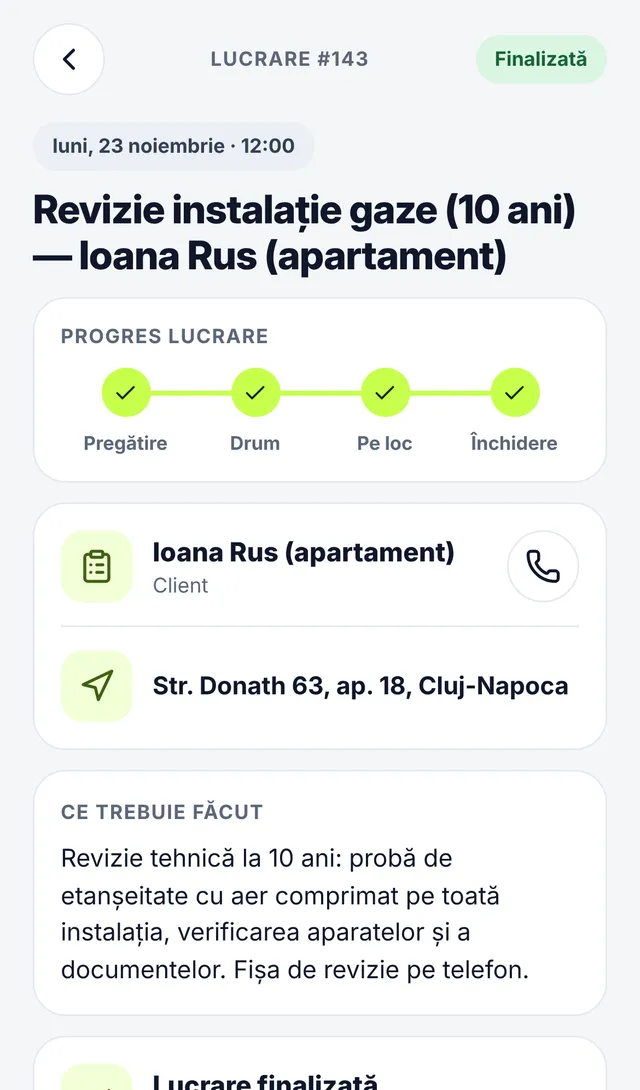
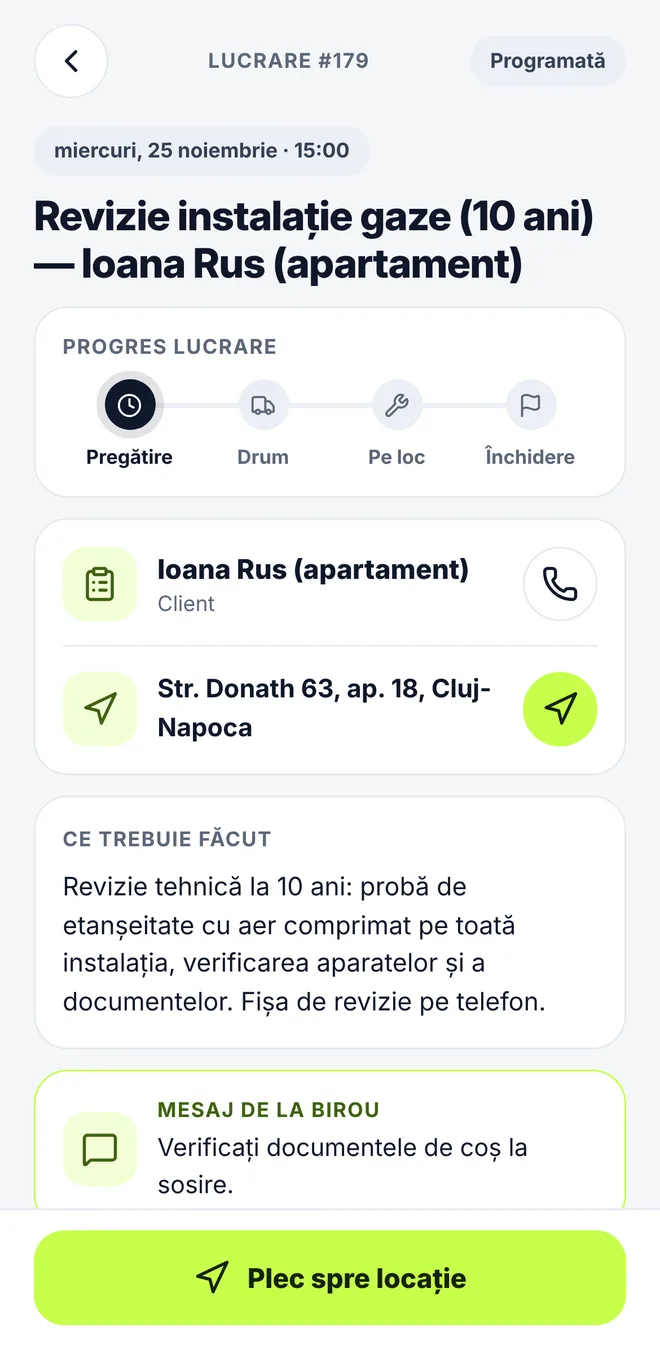
Pagina principală: telefoanele cu proporții și ramă reale de iPhone
Capturile aplicației refăcute la dimensiunea ecranului de telefon, cu bara de stare și decupajul camerei; ecranul nu mai taie captura pe laterale.

Claude-Session: https://claude.ai/code/session_01CgHUwQmF4xUKMt6stntCpV

diff --git a/src/components/marketing/marketing.module.css b/src/components/marketing/marketing.module.css
@@ -549,3 +549,17 @@ p.heroTitle { margin: 0; }
 .appPhones { display: grid; grid-template-columns: repeat(2, minmax(0, 1fr)); gap: 16px; align-items: start; }
 .appPhones .realPhone { width: 100%; max-width: 280px; }
 .appPhones .realPhone:nth-child(2) { margin-top: 40px; }
+
+/* Ramă de iPhone pentru capturile reale: proporții 390×844, bara de stare albă, decupajul camerei. */
+.pf { width: 100%; padding: 3.2%; border-radius: 15% / 7%; background: #121414; box-shadow: 0 0 0 1px #2c302e, 0 30px 60px -30px rgba(0,0,0,.8); }
+.pfScreen { position: relative; border-radius: 12.5% / 5.8%; overflow: hidden; background: #f4f5f7; }
+.pfStatus { position: relative; aspect-ratio: 390 / 47; display: flex; align-items: center; justify-content: space-between; padding: 0 9% 0 11%; color: #101828; background: #f4f5f7; }
+.pfTime { font-family: var(--font-inter), system-ui, sans-serif; font-weight: 600; font-size: clamp(10px, 1.1vw, 14px); letter-spacing: -.01em; }
+.pfIsland { position: absolute; left: 50%; top: 22%; transform: translateX(-50%); width: 32%; height: 62%; border-radius: 100px; background: #000; }
+.pfIcons { display: inline-flex; gap: 5px; align-items: center; }
+.pfIcons svg { fill: currentColor; height: auto; width: clamp(12px, 1.3vw, 18px); }
+.pfImg { display: block; width: 100%; height: auto; }
+.heroPhone { justify-self: center; width: min(78vw, 300px); }
+.appPhone { margin: 0; width: 100%; max-width: 260px; justify-self: center; }
+.appPhone figcaption { margin-top: 10px; text-align: center; font-size: 12.5px; color: var(--fg-mute); }
+.appPhones .appPhone:nth-child(2) { margin-top: 48px; }

diff --git a/src/components/marketing/scene-phone-dashboard.tsx b/src/components/marketing/scene-phone-dashboard.tsx
@@ -1,4 +1,4 @@
-import Image from "next/image";
+import { PhoneFrame } from "./phone-frame";
 import s from "./marketing.module.css";
 
 // Aplicația tehnicianului, din capturi reale (cont de test Electrogaze). Fără animații legate de derulare.
@@ -30,12 +30,12 @@ export function ScenePhoneDashboard() {
           </ul>
         </div>
         <div className={s.appPhones}>
-          <figure className={s.realPhone}>
-            <Image src="/marketing/phone-lucrari.webp" alt="Lista de lucrări a săptămânii în aplicația tehnicianului" width={640} height={1090} sizes="(min-width: 1040px) 280px, 45vw" />
+          <figure className={s.appPhone}>
+            <PhoneFrame src="/marketing/phone-lucrari.webp" alt="Lista de lucrări a săptămânii în aplicația tehnicianului" sizes="(min-width: 1040px) 260px, 45vw" />
             <figcaption>Lucrările săptămânii</figcaption>
           </figure>
-          <figure className={s.realPhone}>
-            <Image src="/marketing/phone-lucrare.webp" alt="Fișa unei lucrări în aplicație: progresul pe pași, clientul, adresa și ce trebuie făcut" width={640} height={1090} sizes="(min-width: 1040px) 280px, 45vw" />
+          <figure className={s.appPhone}>
+            <PhoneFrame src="/marketing/phone-lucrare.webp" alt="Fișa unei lucrări în aplicație: progresul pe pași, clientul, adresa și ce trebuie făcut" sizes="(min-width: 1040px) 260px, 45vw" />
             <figcaption>Fișa unei lucrări</figcaption>
           </figure>
         </div>

diff --git a/src/components/marketing/phone-frame.tsx b/src/components/marketing/phone-frame.tsx
@@ -1,0 +1,24 @@
+import Image from "next/image";
+import s from "./marketing.module.css";
+
+/**
+ * Ramă de iPhone (proporții 390×844) cu bara de stare și decupajul camerei. Ecranul e o captură reală
+ * din aplicație (390×797, fără bara de stare). Folosită pe pagina principală.
+ */
+export function PhoneFrame({ src, alt, priority = false, sizes }: { src: string; alt: string; priority?: boolean; sizes: string }) {
+  return (
+    <div className={s.pf}>
+      <div className={s.pfScreen}>
+        <div className={s.pfStatus} aria-hidden="true">
+          <span className={s.pfTime}>9:41</span>
+          <span className={s.pfIsland} />
+          <span className={s.pfIcons}>
+            <svg viewBox="0 0 18 12" width="17" height="11"><rect x="0" y="8" width="3" height="4" rx="1" /><rect x="5" y="5.5" width="3" height="6.5" rx="1" /><rect x="10" y="3" width="3" height="9" rx="1" /><rect x="15" y="0" width="3" height="12" rx="1" /></svg>
+            <svg viewBox="0 0 26 12" width="25" height="12"><rect x="0.5" y="0.5" width="22" height="11" rx="3.5" fill="none" stroke="currentColor" strokeOpacity=".4" /><rect x="2" y="2" width="17" height="8" rx="2" /><rect x="23.5" y="4" width="2" height="4" rx="1" fillOpacity=".4" /></svg>
+          </span>
+        </div>
+        <Image src={src} alt={alt} width={660} height={1349} priority={priority} sizes={sizes} className={s.pfImg} />
+      </div>
+    </div>
+  );
+}

diff --git a/src/components/marketing/hero.tsx b/src/components/marketing/hero.tsx
@@ -5,6 +5,7 @@ import { useEffect, useRef } from "react";
 import Image from "next/image";
 import { ArrowRight, PlayCircle } from "lucide-react";
 import gsap from "gsap";
+import { PhoneFrame } from "./phone-frame";
 import s from "./marketing.module.css";
 
 export function Hero() {
@@ -70,9 +71,9 @@ export function Hero() {
           </div>
         </div>
 
-        <figure className={s.realPhone}>
-          <Image src="/marketing/phone-lucrari.webp" alt="Aplicația ElectroField pe telefonul tehnicianului: lucrările săptămânii cu ora, clientul, adresa și starea" width={640} height={1090} priority sizes="(min-width: 1040px) 320px, 70vw" />
-        </figure>
+        <div className={s.heroPhone}>
+          <PhoneFrame src="/marketing/phone-lucrari.webp" alt="Aplicația ElectroField pe telefonul tehnicianului: lucrările săptămânii cu ora, clientul, adresa și starea" priority sizes="(min-width: 1040px) 300px, 70vw" />
+        </div>
       </div>
 
     </section>
